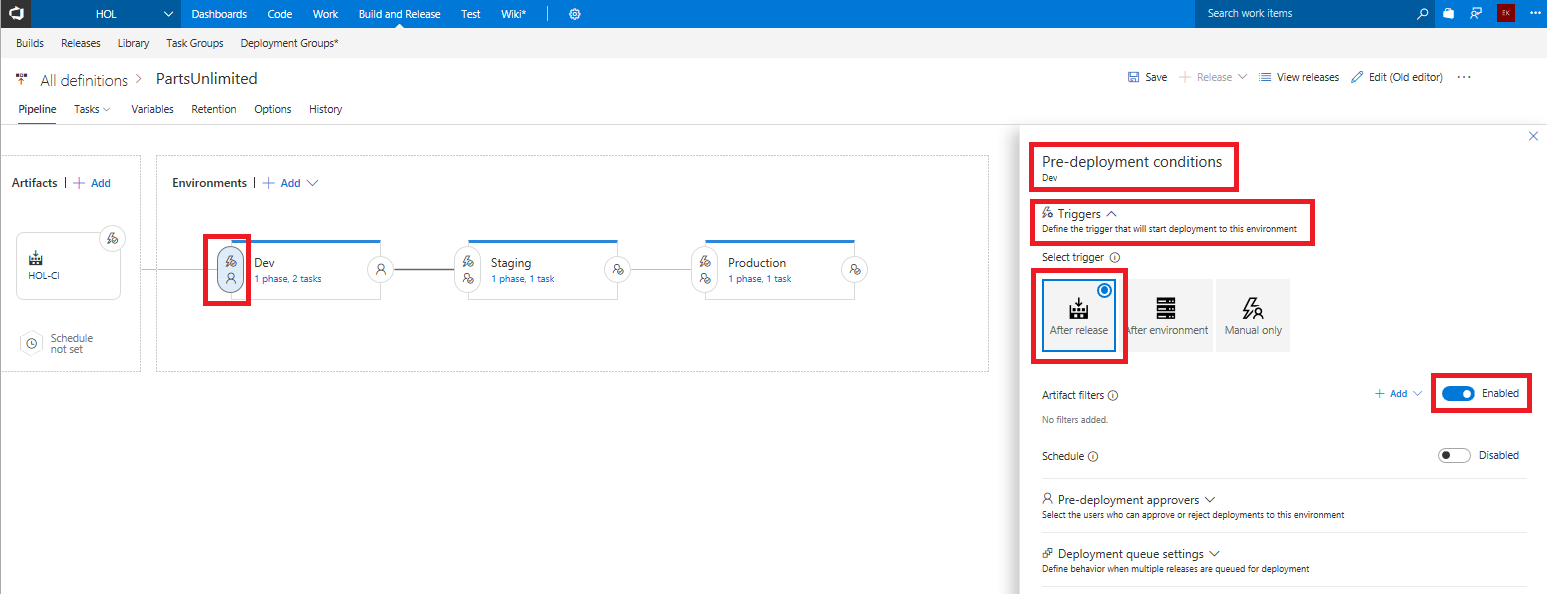
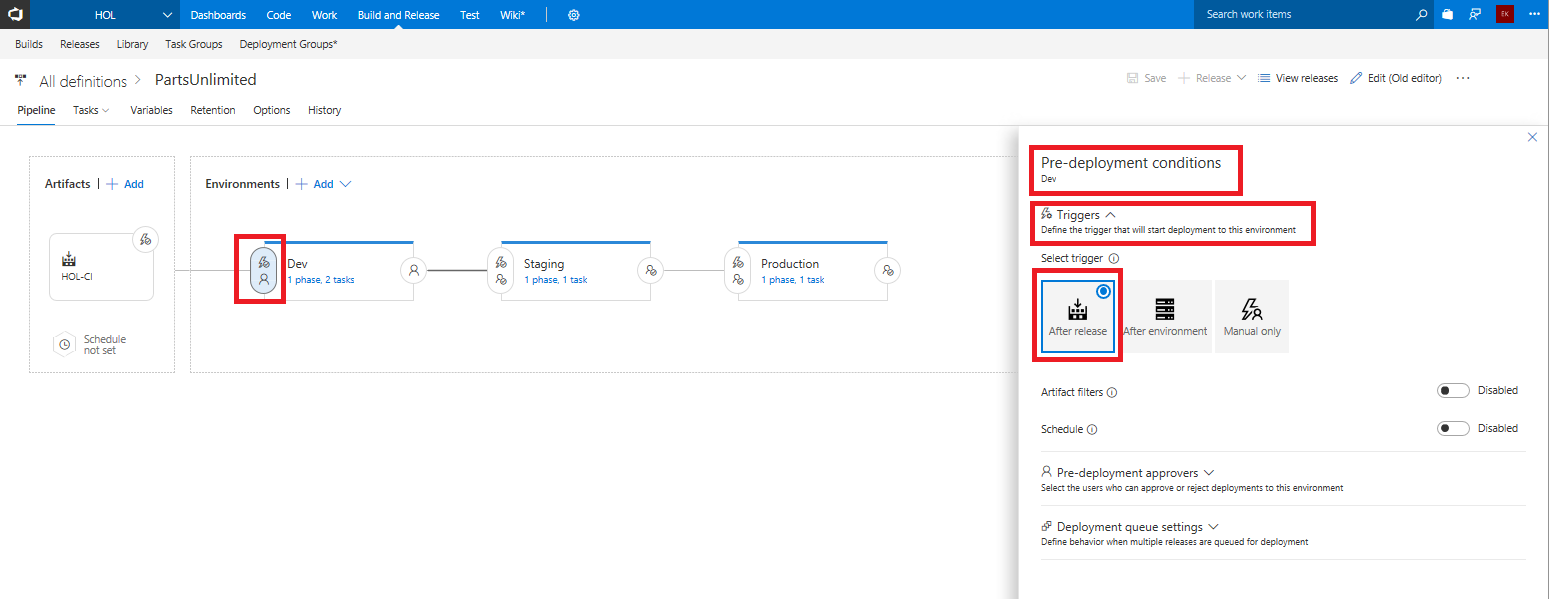
updated steps

diff --git a/_posts/2017-09-29-cd.md b/_posts/2017-09-29-cd.md
@@ -484,28 +484,29 @@ Now that you have verified that the Dev Environment is configured correctly, you
 
 	- Triggers
 		* Select trigger = **After release**
-		* Artifact filters = move the slider to **Enabled**, there is no need to add filters.
+		* Artifact filters = **<default>**
 	- Pre-deployment approvers
 		* Approval Type = **Specific users**
 		* Select approvers = **< enter a user name that is configured in your project >** 
 
 	![](/PartsUnlimited/assets/cd2/DevPreDeployConfig1.png)
 
-	> **Note:** We have now configured the build as the trigger to start a dev environment deployment, meaning that any time the artifact build completes, a new release will automatically start using the latest build in the Dev enviroment. We will not configure post deployment options for the Dev environemnt in htis scenario.
+	> **Note:** We configured our continuous deployment condition earlier in the Artifacts configuration in the pipeline and now defined out pre-deploymeny conditions for the Dev environment deployment, meaning that any time the artifact build completes, a new release will automatically start using the latest build in the Dev enviroment. We will not configure post deployment options for the Dev environemnt in this scenario.
 
 
 17. Save the Release Definition.
 
 
-	> **Note:** We have now configured our build and release definitions so that Deployment to “Dev” environment should be triggered after release is created.<br/> Deployment to “Staging” can be triggered on successful deployment to “Dev”.<br/>	Deployment to “Production” can be triggered on successful deployment to “Staging”.
-	> **Note:** Also, since the incoming build for this release is a CI build, in a real world deployment you probably wouldn't want to deploy the build all the way to Production. Setting the Release to stop at Dev could mean that you would create a new Release with Production as the target environment if you want to deploy to Production. This is of course configurable according to your own preferences and requirements.
+	> **Note:** We have now configured our build and release definitions so that Deployment to **Dev** environment will be triggered after a new Build Artifact is created.<br/> Deployment to **Staging** can be triggered on successful deployment to **Dev**.<br/>	Deployment to **Production** can be triggered on successful deployment to *Staging**.
+
+	> **Note:** Also, since the incoming build for this release is a CI build, in a real world deployment you probably wouldn't want to deploy the build all the way to Production. Setting the Release to stop at Dev could mean that you could create a separate Release defintion with Production as the target environment if you want to deploy to Production. This is of course configurable according to your own preferences and requirements.
 
 
 ### Task 5: Create a Release
 Now that you have configured the Release Pipeline, you are ready to trigger a complete
 release.
 
-1. Click on "+ Release" to create a new Release.
+1. Click on **+ Release** to create a new Release.
 2. Select the latest build, click Create.
 
 	![](/PartsUnlimited/assets/cd/36.png)
